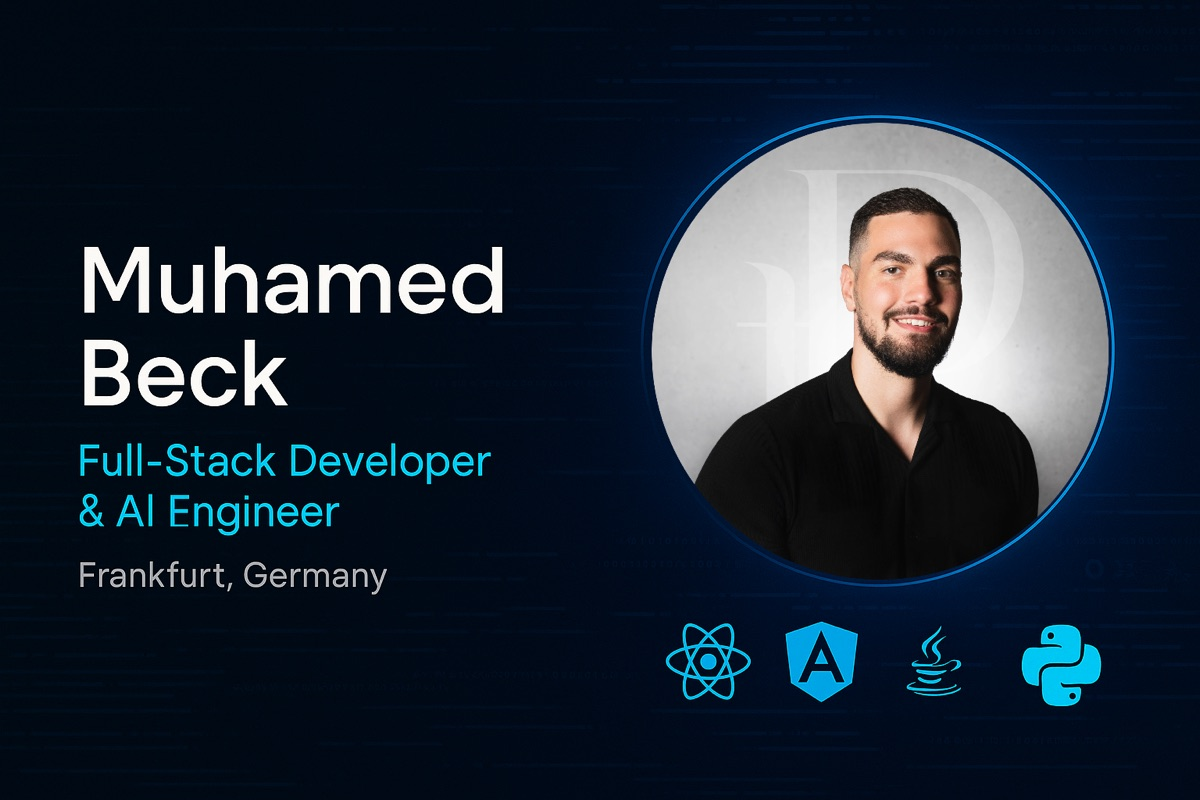
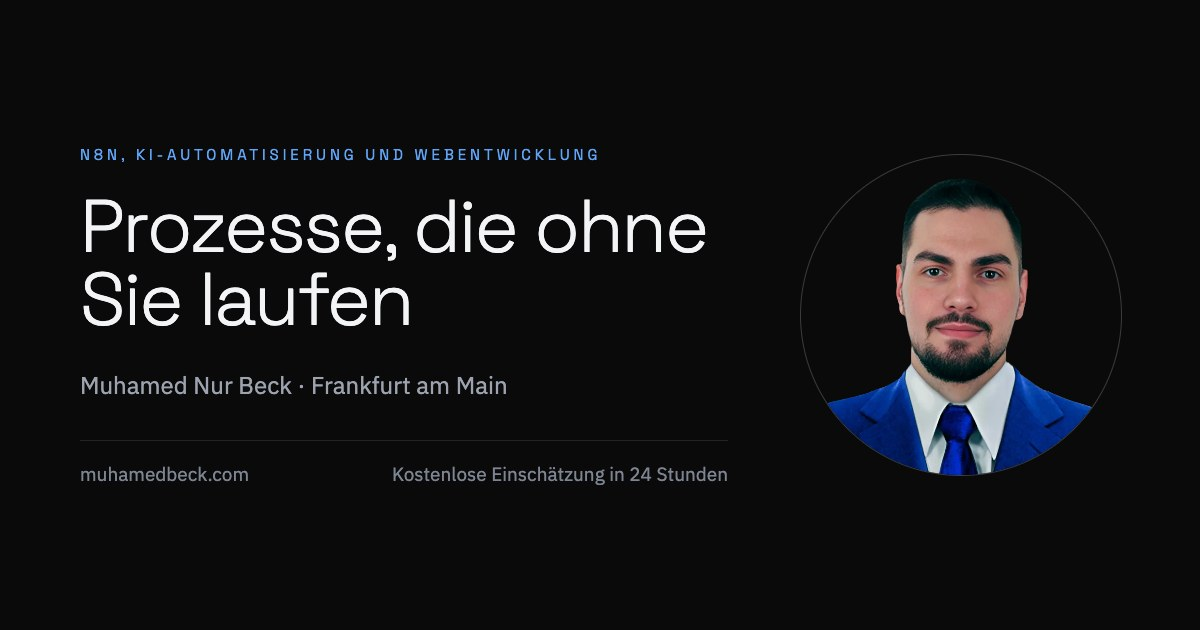
feat(seo): deutsches Vorschaubild für geteilte Links
Neues public/og-image.jpg (1200 × 630) aus scripts/vorschaubild.html im Stil
des Kopfbereichs. Das bisherige englische Bild heißt og-image-en.jpg und gilt
weiter für /en und /ar; vorschaubildFuer() wählt je Sprache, ein eigenes
ogImage hat Vorrang.

diff --git a/scripts/vorschaubild.html b/scripts/vorschaubild.html
@@ -1,0 +1,111 @@
+<!doctype html>
+<!--
+  Vorlage für public/og-image.jpg (1200 × 630), das Vorschaubild geteilter
+  Links auf den deutschen Seiten. Gleiche Schrift, Farben und Bildsprache wie
+  der Kopfbereich der Startseite, damit das Bild nach der Seite aussieht.
+
+  Erzeugen: Schriften und Porträt als data-URL einbetten (Browser laden
+  Schriften aus file:// sonst nicht), Seite bei 1200 × 630 öffnen, als JPEG
+  (Qualität 88) aufnehmen. Danach LinkedIn Post Inspector und den
+  WhatsApp-Cache neu laden lassen, sonst zeigen beide noch das alte Bild.
+-->
+<html lang="de">
+<head>
+<meta charset="utf-8" />
+<title>Vorschaubild muhamedbeck.com</title>
+<style>
+  @font-face {
+    font-family: "Space Grotesk";
+    font-weight: 300 700;
+    src: url("../public/fonts/space-grotesk-latin.woff2") format("woff2");
+  }
+  @font-face {
+    font-family: "IBM Plex Sans";
+    font-weight: 400 600;
+    src: url("../public/fonts/ibm-plex-sans-latin.woff2") format("woff2");
+  }
+  :root {
+    --ink: #0a0a0a;
+    --paper: #f3f4f6;
+    --paper-soft: #9ca3af;
+    --paper-mute: #7d8592;
+    --accent: #60a5fa;
+    --hairline: rgb(255 255 255 / 0.1);
+    --hairline-strong: rgb(255 255 255 / 0.2);
+  }
+  html,
+  body {
+    margin: 0;
+  }
+  body {
+    width: 1200px;
+    height: 630px;
+    background: var(--ink);
+    color: var(--paper);
+    font-family: "IBM Plex Sans", sans-serif;
+  }
+  .rahmen {
+    box-sizing: border-box;
+    width: 1200px;
+    height: 630px;
+    padding: 64px 80px;
+    display: grid;
+    grid-template-columns: 1fr 320px;
+    column-gap: 72px;
+    align-items: center;
+  }
+  .label {
+    font-family: "Space Grotesk", sans-serif;
+    font-size: 15px;
+    letter-spacing: 0.26em;
+    text-transform: uppercase;
+    color: var(--accent);
+  }
+  h1 {
+    margin: 26px 0 0;
+    font-family: "Space Grotesk", sans-serif;
+    font-weight: 300;
+    font-size: 74px;
+    line-height: 0.98;
+    letter-spacing: -0.025em;
+  }
+  .person {
+    margin-top: 34px;
+    font-size: 24px;
+    color: var(--paper-soft);
+  }
+  .fuss {
+    margin-top: 40px;
+    padding-top: 20px;
+    border-top: 1px solid var(--hairline);
+    display: flex;
+    justify-content: space-between;
+    gap: 24px;
+    font-size: 19px;
+    color: var(--paper-mute);
+  }
+  .bild {
+    width: 320px;
+    height: 320px;
+    border-radius: 50%;
+    border: 1px solid var(--hairline-strong);
+    object-fit: cover;
+    object-position: center 18%;
+  }
+</style>
+</head>
+<body>
+  <div class="rahmen">
+    <div>
+      <div class="label">n8n, KI-Automatisierung und Webentwicklung</div>
+      <h1>Prozesse, die ohne Sie laufen</h1>
+      <div class="person">Muhamed Nur Beck · Frankfurt am Main</div>
+      <div class="fuss">
+        <span>muhamedbeck.com</span>
+        <span>Kostenlose Einschätzung in 24 Stunden</span>
+      </div>
+    </div>
+    <img class="bild" src="../src/assets/profilepicture.webp" alt="" />
+  </div>
+</body>
+</html>

diff --git a/prerender-meta.js b/prerender-meta.js
@@ -25,7 +25,7 @@ import { DOLMETSCH_RATGEBER } from "./src/content/dolmetscher.ratgeber.de.js";
 import { CONTACT, RATE_MAX, RATE_MIN, RATE_TEXT, SAME_AS } from "./src/content/site.js";
 import { prepare, render } from "./dist-ssr/entry-server.js";
 import { ohneSkriptMaengel } from "./scripts/live-pruefungen.js";
-import { schriftVorladen, vorschaubildErsetzungen } from "./src/seo/kopfZusaetze.js";
+import { schriftVorladen, vorschaubildErsetzungen, vorschaubildFuer } from "./src/seo/kopfZusaetze.js";
 import { dolmetscherServiceKnoten } from "./src/seo/dolmetscherSchema.js";
 import { INHALT as DOLMETSCHER_DE } from "./src/content/dolmetscher.de.js";
 import { INHALT as DOLMETSCHER_EN } from "./src/content/dolmetscher.en.js";
@@ -347,8 +347,8 @@ const articleNode = (route, article) => ({
   },
   inLanguage: localeConfig(route.locale).intlLocale,
   articleSection: article.kicker,
-  // The route's own preview image where it has one (the interpreter guide).
-  image: `${SITE_URL}${route.ogImage?.src ?? "/og-image.jpg"}`,
+  // The route's own preview image, else the one for its language.
+  image: `${SITE_URL}${vorschaubildFuer(route).src}`,
   mainEntityOfPage: `${SITE_URL}${route.path}`,
 });
 
@@ -413,10 +413,9 @@ for (const route of ROUTES) {
     [/(<meta name="twitter:description" content=")[^"]*(" \/>)/, (m, a, b) => `${a}${description}${b}`, "twitter:description"],
   ];
 
-  // Own preview image (registry field ogImage); mandatory like every replacement here.
-  if (route.ogImage) {
-    replacements.push(...vorschaubildErsetzungen(route.ogImage));
-  }
+  // Preview image: the route's own (registry field ogImage), else the one for
+  // its language; mandatory like every replacement here.
+  replacements.push(...vorschaubildErsetzungen(vorschaubildFuer(route)));
 
   if (route.path !== "/") {
     replacements.push([

diff --git a/tests/kopf-zusaetze.test.js b/tests/kopf-zusaetze.test.js
@@ -85,3 +85,16 @@ test("Service-Knoten jeder Fassung: keine Gattungen, keine geschützten Bezeichn
     assert.doesNotMatch(json, /Polizei|Gericht|Klinik|Behörde|police|court|hospital|الشرطة|المحاكم|المستشفيات/i, locale);
   }
 });
+
+// Seit 19.11.2026: deutsches Vorschaubild für die deutschen Seiten; /en und /ar
+// behalten das bisherige englische, Seiten mit eigenem Bild ihres.
+test("vorschaubildFuer: Bild je Sprache, eigenes Bild hat Vorrang", async () => {
+  const { vorschaubildFuer } = await import("../src/seo/kopfZusaetze.js");
+  const route = (pfad) => ROUTES.find((eintrag) => eintrag.path === pfad);
+  assert.deepEqual(vorschaubildFuer(route("/")), { src: "/og-image.jpg", width: 1200, height: 630 });
+  assert.deepEqual(vorschaubildFuer(route("/leistungen/n8n-automatisierung")), { src: "/og-image.jpg", width: 1200, height: 630 });
+  assert.deepEqual(vorschaubildFuer(route("/en")), { src: "/og-image-en.jpg", width: 1200, height: 800 });
+  assert.deepEqual(vorschaubildFuer(route("/ar")), { src: "/og-image-en.jpg", width: 1200, height: 800 });
+  assert.deepEqual(vorschaubildFuer(gruppe.de), gruppe.de.ogImage);
+  assert.deepEqual(vorschaubildFuer(gruppe.en), gruppe.en.ogImage);
+});

diff --git a/src/seo/kopfZusaetze.js b/src/seo/kopfZusaetze.js
@@ -41,3 +41,18 @@ export function vorschaubildErsetzungen({ src, width, height }) {
     [/(<meta name="twitter:image" content=")[^"]*(" \/>)/, (m, a, b) => `${a}${url}${b}`, "twitter:image"],
   ];
 }
+
+/* Vorschaubild für geteilte Links, wenn eine Route kein eigenes hat. Seit
+   19.11.2026 deutsch (scripts/vorschaubild.html); /en und /ar behalten das
+   bisherige englische Bild, das für sie geschrieben ist. */
+const VORSCHAU_DE = { src: "/og-image.jpg", width: 1200, height: 630 };
+const VORSCHAU_FREMD = { src: "/og-image-en.jpg", width: 1200, height: 800 };
+
+/**
+ * Vorschaubild einer Route: ihr eigenes (`ogImage`), sonst das ihrer Sprache.
+ *
+ * @param {{ locale: string, ogImage?: { src: string, width: number, height: number } }} route
+ * @returns {{ src: string, width: number, height: number }}
+ */
+export const vorschaubildFuer = (route) =>
+  route.ogImage ?? (route.locale === "de" ? VORSCHAU_DE : VORSCHAU_FREMD);

diff --git a/index.html b/index.html
@@ -95,7 +95,7 @@
   <meta property="og:description" content="n8n Experte aus Frankfurt: Workflow-Automatisierung, KI-Agenten und CRM-Anbindung für Firmen. 80 bis 120 € pro Stunde nach Absprache. Antwort in 24 Stunden." />
   <meta property="og:image" content="https://muhamedbeck.com/og-image.jpg" />
   <meta property="og:image:width" content="1200" />
-  <meta property="og:image:height" content="800" />
+  <meta property="og:image:height" content="630" />
   <meta property="og:image:alt" content="Muhamed Nur Beck, AI Automation Manager aus Frankfurt am Main" />
   <meta property="og:locale" content="de_DE" />
   <meta property="og:site_name" content="Muhamed Beck" />
